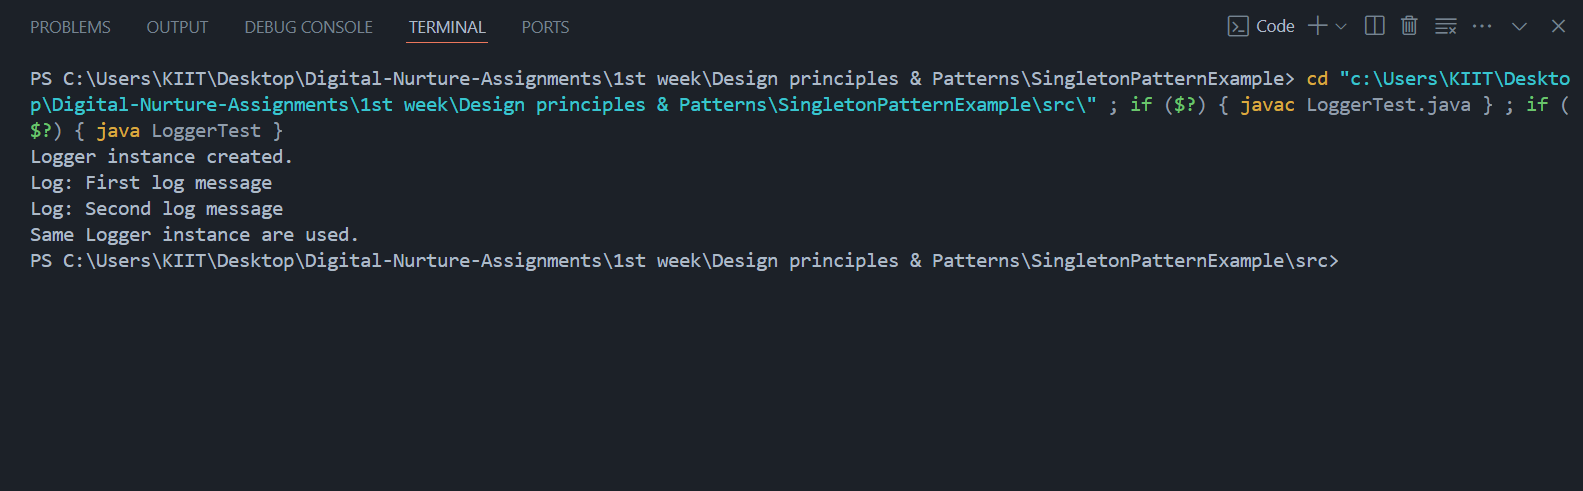
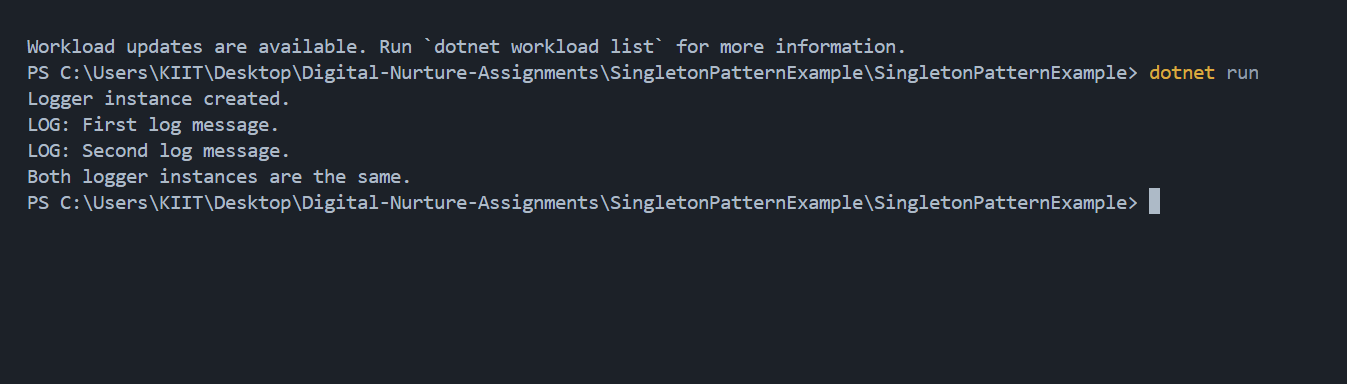
Week 1 Complete

Changed region(s): [[0.0, 0.0312, 0.9978, 0.5625], [0.7795, 0.0312, 0.9354, 0.0938], [0.9666, 0.0312, 0.9978, 0.0625]]

diff --git a/Week1_DesignPatternsAndPrinciples/Code/02_FactoryMethodPatternCodes/Program.cs b/Week1_DesignPatternsAndPrinciples/Code/02_FactoryMethodPatternCodes/Program.cs
@@ -1,0 +1,19 @@
+using System;
+
+class Program
+{
+    static void Main(string[] args)
+    {
+        DocumentFactory wordFactory = new WordDocumentFactory();
+        IDocument wordDoc = wordFactory.CreateDocument();
+        wordDoc.Open();
+
+        DocumentFactory pdfFactory = new PdfDocumentFactory();
+        IDocument pdfDoc = pdfFactory.CreateDocument();
+        pdfDoc.Open();
+
+        DocumentFactory excelFactory = new ExcelDocumentFactory();
+        IDocument excelDoc = excelFactory.CreateDocument();
+        excelDoc.Open();
+    }
+}

diff --git a/Week1_DesignPatternsAndPrinciples/Code/01_SingletonPatternCodes/LoggerTest.cs b/Week1_DesignPatternsAndPrinciples/Code/01_SingletonPatternCodes/LoggerTest.cs
@@ -1,0 +1,20 @@
+class LoggerTest
+{
+    static void Main(string[] args)
+    {
+        Logger logger1 = Logger.GetInstance();
+        logger1.Log("First log message.");
+
+        Logger logger2 = Logger.GetInstance();
+        logger2.Log("Second log message.");
+
+        if (logger1 == logger2)
+        {
+            System.Console.WriteLine("Both logger instances are the same.");
+        }
+        else
+        {
+            System.Console.WriteLine("Logger instances are different.");
+        }
+    }
+}

diff --git a/Week1_DesignPatternsAndPrinciples/Code/01_SingletonPatternCodes/Logger.cs b/Week1_DesignPatternsAndPrinciples/Code/01_SingletonPatternCodes/Logger.cs
@@ -1,0 +1,21 @@
+public class Logger
+{
+    private static Logger instance;
+    private Logger()
+    {
+        System.Console.WriteLine("Logger instance created.");
+    }
+    public static Logger GetInstance()
+    {
+        if (instance == null)
+        {
+            instance = new Logger();
+        }
+
+        return instance;
+    }
+    public void Log(string message)
+    {
+        System.Console.WriteLine("LOG: " + message);
+    }
+}

diff --git a/Week1_DesignPatternsAndPrinciples/Code/02_FactoryMethodPatternCodes/ExcelDocumentFactory.cs b/Week1_DesignPatternsAndPrinciples/Code/02_FactoryMethodPatternCodes/ExcelDocumentFactory.cs
@@ -1,0 +1,7 @@
+public class ExcelDocumentFactory : DocumentFactory
+{
+    public override IDocument CreateDocument()
+    {
+        return new ExcelDocument();
+    }
+}

diff --git a/Week1_DesignPatternsAndPrinciples/Code/02_FactoryMethodPatternCodes/WordDocumentFactory.cs b/Week1_DesignPatternsAndPrinciples/Code/02_FactoryMethodPatternCodes/WordDocumentFactory.cs
@@ -1,0 +1,7 @@
+public class WordDocumentFactory : DocumentFactory
+{
+    public override IDocument CreateDocument()
+    {
+        return new WordDocument();
+    }
+}

diff --git a/Week1_DesignPatternsAndPrinciples/Code/02_FactoryMethodPatternCodes/PdfDocumentFactory.cs b/Week1_DesignPatternsAndPrinciples/Code/02_FactoryMethodPatternCodes/PdfDocumentFactory.cs
@@ -1,0 +1,7 @@
+public class PdfDocumentFactory : DocumentFactory
+{
+    public override IDocument CreateDocument()
+    {
+        return new PdfDocument();
+    }
+}

diff --git a/Week1_DesignPatternsAndPrinciples/Code/02_FactoryMethodPatternCodes/ExcelDocument.cs b/Week1_DesignPatternsAndPrinciples/Code/02_FactoryMethodPatternCodes/ExcelDocument.cs
@@ -1,0 +1,7 @@
+public class ExcelDocument : IDocument
+{
+    public void Open()
+    {
+        Console.WriteLine("Opening Excel document.");
+    }
+}

diff --git a/Week1_DesignPatternsAndPrinciples/Code/02_FactoryMethodPatternCodes/WordDocument.cs b/Week1_DesignPatternsAndPrinciples/Code/02_FactoryMethodPatternCodes/WordDocument.cs
@@ -1,0 +1,7 @@
+public class WordDocument : IDocument
+{
+    public void Open()
+    {
+        Console.WriteLine("Opening Word document.");
+    }
+}

diff --git a/Week1_DesignPatternsAndPrinciples/Code/02_FactoryMethodPatternCodes/PdfDocument.cs b/Week1_DesignPatternsAndPrinciples/Code/02_FactoryMethodPatternCodes/PdfDocument.cs
@@ -1,0 +1,7 @@
+public class PdfDocument : IDocument
+{
+    public void Open()
+    {
+        Console.WriteLine("Opening PDF document.");
+    }
+}

diff --git a/Week1_DesignPatternsAndPrinciples/Code/02_FactoryMethodPatternCodes/DocumentFactory.cs b/Week1_DesignPatternsAndPrinciples/Code/02_FactoryMethodPatternCodes/DocumentFactory.cs
@@ -1,0 +1,4 @@
+public abstract class DocumentFactory
+{
+    public abstract IDocument CreateDocument();
+}

diff --git a/Week1_DesignPatternsAndPrinciples/Code/02_FactoryMethodPatternCodes/IDocument.cs b/Week1_DesignPatternsAndPrinciples/Code/02_FactoryMethodPatternCodes/IDocument.cs
@@ -1,0 +1,4 @@
+public interface IDocument
+{
+    void Open();
+}

diff --git a/Week1_DesignPatternsAndPrinciples/02_ FactoryMethodPattern/Notes.md b/Week1_DesignPatternsAndPrinciples/02_ FactoryMethodPattern/Notes.md
@@ -1,20 +1,33 @@
-# Approach for Factory Method Pattern Exercise
+# Factory Method Pattern
 
-## Components:
-- Interface: `Document`
-- Concrete Products: `WordDocument`, `PdfDocument`, `ExcelDocument`
-- Abstract Factory: `DocumentFactory` (contains abstract method `createDocument()`)
-- Concrete Factories:
-  - `WordDocumentFactory`
-  - `PdfDocumentFactory`
-  - `ExcelDocumentFactory`
+## Components
 
-## Behavior:
-Each concrete factory knows how to instantiate its specific document type. The client uses the factory without needing to know the internal instantiation logic.
+### 1. Interface
+- `IDocument.cs`
+  - Declares method: `void Open();`
 
-## Testing Plan:
-- Using `DocumentFactoryTest` class to:
-  - Instantiate each factory
-  - Calling `createDocument()` and print/verify the class type
-- Validating that different factory instances produce different document types, all adhering to the `Document` interface.
+### 2. Concrete Document Classes
+- `WordDocument.cs`
+- `PdfDocument.cs`
+- `ExcelDocument.cs`
 
+Each implements `IDocument` and overrides `Open()` method.
+
+### 3. Abstract Factory
+- `DocumentFactory.cs`
+  - Abstract class with method:
+    ```csharp
+    public abstract IDocument CreateDocument();
+    ```
+
+### 4. Concrete Factories
+- `WordDocumentFactory.cs`
+- `PdfDocumentFactory.cs`
+- `ExcelDocumentFactory.cs`
+
+Each class inherits from `DocumentFactory` and implements `CreateDocument()` returning the respective document type.
+
+## Testing Plan
+
+### Test Class
+- File: `Program.cs` used to instantiate each factory and verify correct document creation.
